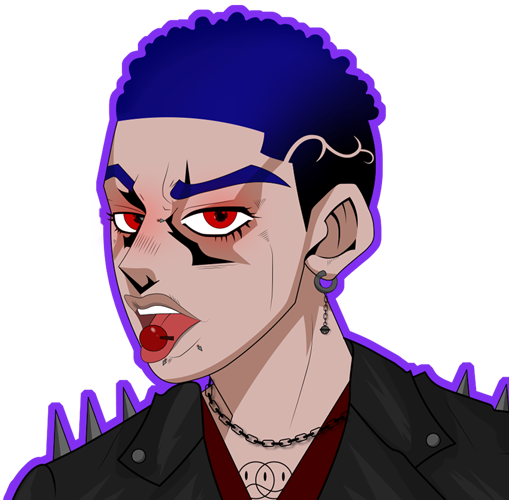
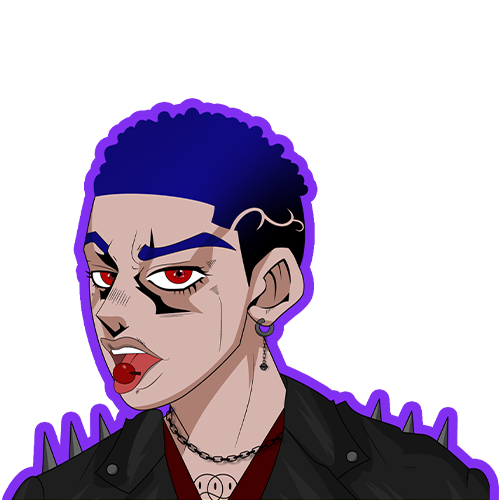
ajustes na fileira de tecnologias

diff --git a/src/html/index.html b/src/html/index.html
@@ -4,9 +4,13 @@
   <meta charset="UTF-8">
   <meta http-equiv="X-UA-Compatible" content="IE=edge">
   <meta name="viewport" content="width=device-width, initial-scale=1.0">
+  <link rel="preconnect" href="https://fonts.googleapis.com">
+  <link rel="preconnect" href="https://fonts.gstatic.com" crossorigin>
+  <link href="https://fonts.googleapis.com/css2?family=Montserrat:ital,wght@0,200;0,300;0,400;1,100;1,200;1,300&display=swap" rel="stylesheet">
   <link rel="stylesheet" href="../styles/style.css">
   <link rel="stylesheet" href="../assets/fonts/fonts.css">
-  <title>Document</title>
+  <link rel="icon" href="../assets/imgs/star.png" type="image/png">
+  <title>Amanda Jauregui - Portifólio</title>
 </head>
 <body>
 
@@ -50,12 +54,8 @@
 
     <!-- APRESENTATION BLOCK -->
     <div class="txt-apresentation">
-        <div class="card">
-          <div class="circle"></div>
-          <div class="circle"></div>
-          <div class="card-inner">
-            <img src="../assets/imgs/me2.png" alt="">
-          </div>
+      <div class="card">
+        <img src="../assets/imgs/me7.png" alt="">
       </div>
       <div class="txt">
         <p>
@@ -70,12 +70,113 @@
       </div>
     </div>
   </section>
-  <section>
-    <div class="block1">
-      
+  <section class="layout">
+    <div class="grid">
+      <div class="techblocks">
+        <div class="icon"><img src="" alt=""></div>
+        <div class="techname">
+          <h1>UI e UX</h1>
+          <p>Intermediário</p>
+        </div>
+      </div>
+      <div class="techblocks">
+        <div class="icon"><img src="" alt=""></div>
+        <div class="techname">
+          <h1>Figma</h1>
+          <p>Intermediário</p>
+        </div>
+      </div>
+      <div class="techblocks">
+      <div class="icon"><img src="" alt=""></div>
+      <div class="techname">
+        <h1>Photoshop</h1>
+        <p>Avançado</p>
+      </div>
     </div>
-    <div class="block2">
-      
+    <div class="techblocks">
+      <div class="icon"><img src="" alt=""></div>
+      <div class="techname">
+        <h1>JavaScript</h1>
+        <p>Intermediário</p>
+      </div>
+    </div>
+    <div class="techblocks">
+      <div class="icon"><img src="" alt=""></div>
+      <div class="techname">
+        <h1>NodeJS</h1>
+        <p>Intermediário</p>
+      </div>
+    </div>
+    <div class="techblocks">
+      <div class="icon"><img src="" alt=""></div>
+      <div class="techname">
+        <h1>Express</h1>
+        <p>Intermediário</p>
+      </div>
+    </div>
+    <div class="techblocks">
+      <div class="icon"><img src="" alt=""></div>
+      <div class="techname">
+        <h1>PostgreSQL</h1>
+        <p>Intermediário</p>
+      </div>
+    </div>
+    <div class="techblocks">
+      <div class="icon"><img src="" alt=""></div>
+      <div class="techname">
+        <h1>HTML</h1>
+        <p>Avançado</p>
+      </div>
+    </div>
+    <div class="techblocks">
+      <div class="icon"><img src="" alt=""></div>
+      <div class="techname">
+        <h1>CSS</h1>
+        <p>Intermediário</p>
+      </div>
+    </div>
+    <div class="techblocks">
+      <div class="icon"><img src="" alt=""></div>
+      <div class="techname">
+        <h1>React</h1>
+        <p>Básico</p>
+      </div>
+    </div>
+    <div class="techblocks">
+      <div class="icon"><img src="" alt=""></div>
+      <div class="techname">
+        <h1>Tailwind</h1>
+        <p>Básico</p>
+      </div>
+    </div>
+    <div class="techblocks">
+      <div class="icon"><img src="" alt=""></div>
+      <div class="techname">
+        <h1>TypeScript</h1>
+        <p>Básico</p>
+      </div>
+    </div>
+    <div class="techblocks">
+      <div class="icon"><img src="" alt=""></div>
+      <div class="techname">
+        <h1>Git</h1>
+        <p>Intermediário</p>
+      </div>
+    </div>
+    <div class="techblocks">
+      <div class="icon"><img src="" alt=""></div>
+      <div class="techname">
+        <h1>Jest</h1>
+        <p>Básico</p>
+      </div>
+    </div>
+    <div class="techblocks">
+      <div class="icon"><img src="" alt=""></div>
+      <div class="techname">
+        <h1>Next</h1>
+        <p>Básico</p>
+      </div>
+    </div>
     </div>
   </section>
   <section>

diff --git a/src/styles/style.css b/src/styles/style.css
@@ -1,14 +1,14 @@
 :root {
   --color-purple: #843bcf;
   --color-white: #fff;
-  --color-text-hover: #843bcf;
-  --color-bg-dark: #161512;
+  --color-bg-dark: #0d0d0e;
   --color-purple-dark: #2a1640;
 }
 
 *{
   box-sizing: border-box;
   font-family: 'Cooper';
+  color: var(--color-white);
 }
 body{
   margin: 0;
@@ -57,7 +57,6 @@ header{
 }
 header a{
   text-decoration: none;
-  color: var(--color-white);
 }
 li a:hover{
   background-color: var(--color-white);
@@ -82,6 +81,7 @@ li a:hover{
 }
 .main-txt {
   width: 50%;
+  max-width: 800px;
   align-self: center;
   margin-left: 5%;
 }
@@ -95,7 +95,7 @@ li a:hover{
 }
 .main-img{
   display: flex;
-  margin: 35px 0 0 0;
+  margin: 25px 5% 0 0;
   padding: 0;
   height: 600px;
   width: auto;
@@ -105,6 +105,7 @@ li a:hover{
 
 /** text apresentation + photo */
 .txt-apresentation{
+  z-index: 99;
   background-color: var(--color-bg-dark);
   height: 500px;
   display: flex;
@@ -116,65 +117,90 @@ li a:hover{
   max-width: 50%;
   margin: 0 5% 0 0;
 }
-.photo {
-  max-width: 50%;
-  margin: 0 0 0 5%;
+.txt p{
+  font-family: 'Montserrat';
+  font-weight: 400;
+  font-size: 22px;
 }
 .card {
-  margin-left: 8%;
+  position: relative;
+  margin-left: 5%;
   width: 310px;
   height: 310px;
-  transition: all 0.2s;
-  position: relative;
-  cursor: pointer;
+  background: rgb(255, 0, 179);
+  background: linear-gradient(137deg, var(--color-purple) 0%, var(--color-purple-dark) 100%, 137deg, var(--color-purple) 0%);
+  transition: 0.3s ease;
+  border-radius: 30px;
+  filter: drop-shadow(0px 0px 30px rgba(250, 15, 234, 0.5));
 }
 
-.card-inner {
-  width: inherit;
-  height: inherit;
-  background: rgba(255,255,255,.05);
-  box-shadow: 0 0 10px rgba(0,0,0,0.25);
-  backdrop-filter: blur(10px);
-  border-radius: 200px;
-}
-.card-inner img {
-  border-radius: 200px;
+.card::after {
+  content: '';
+  position: absolute;
+  z-index: 1;
+  transition: 0.3s ease;
+  height: 98%;
+  width: 98%;
+  top: 1%;
+  left: 1%;
+  border-radius: 28px;
 }
 
 .card:hover {
-  transform: scale(1.04) rotate(1deg);
-}
-
-.circle {
-  width: 100px;
-  height: 100px;
-  background: radial-gradient(var(--color-purple), var(--color-purple-dark));
-  border-radius: 50%;
-  position: absolute;
-  animation: move-up6 2s ease-in infinite alternate-reverse;
-}
-
-.circle:nth-child(1) {
-  top: -25px;
-  left: -25px;
-}
-
-.circle:nth-child(2) {
-  bottom: -25px;
-  right: -25px;
-  animation-name: move-down1;
-}
-
-@keyframes move-up6 {
-  to {
-    transform: translateY(-10px);
-  }
-}
-
-@keyframes move-down1 {
-  to {
-    transform: translateY(10px);
-  }
+  filter: drop-shadow(0px 0px 30px rgba(209, 38, 197, 1));
 }
 
 /** LENGUAGES */
+
+.layout{
+  margin-top: 2vh;
+  display: flex;
+  max-height: 800px;
+}
+.grid {
+    width: 100%;
+    display: flex;
+    justify-content: center;
+  align-items: center;
+    gap: 16px;
+    flex-wrap: wrap;
+}
+.icon {
+  height: 120px;
+  width: 120px;
+  background-color: var(--color-purple);
+  border-radius: 100px;
+}
+.techname{
+  display: flex;
+  flex-direction: column;
+  align-items: center;
+  margin: 5px;
+  
+}
+.techname h1, p {
+  margin: 5px;
+}
+.techname h1 {
+  margin: 5px;
+  font-size: 18px;
+}
+.techname p {
+  margin: 2px;
+  font-family: 'Montserrat';
+  font-weight: 400;
+  font-size: 14px;
+}
+.techblocks{
+  display: flex;
+  flex-direction: column;
+  align-items: center;
+}
+
+/*projects*/
+
+footer {
+  margin-top: 20px;
+  height: 400px;
+  background-color: var(--color-bg-dark);
+}
